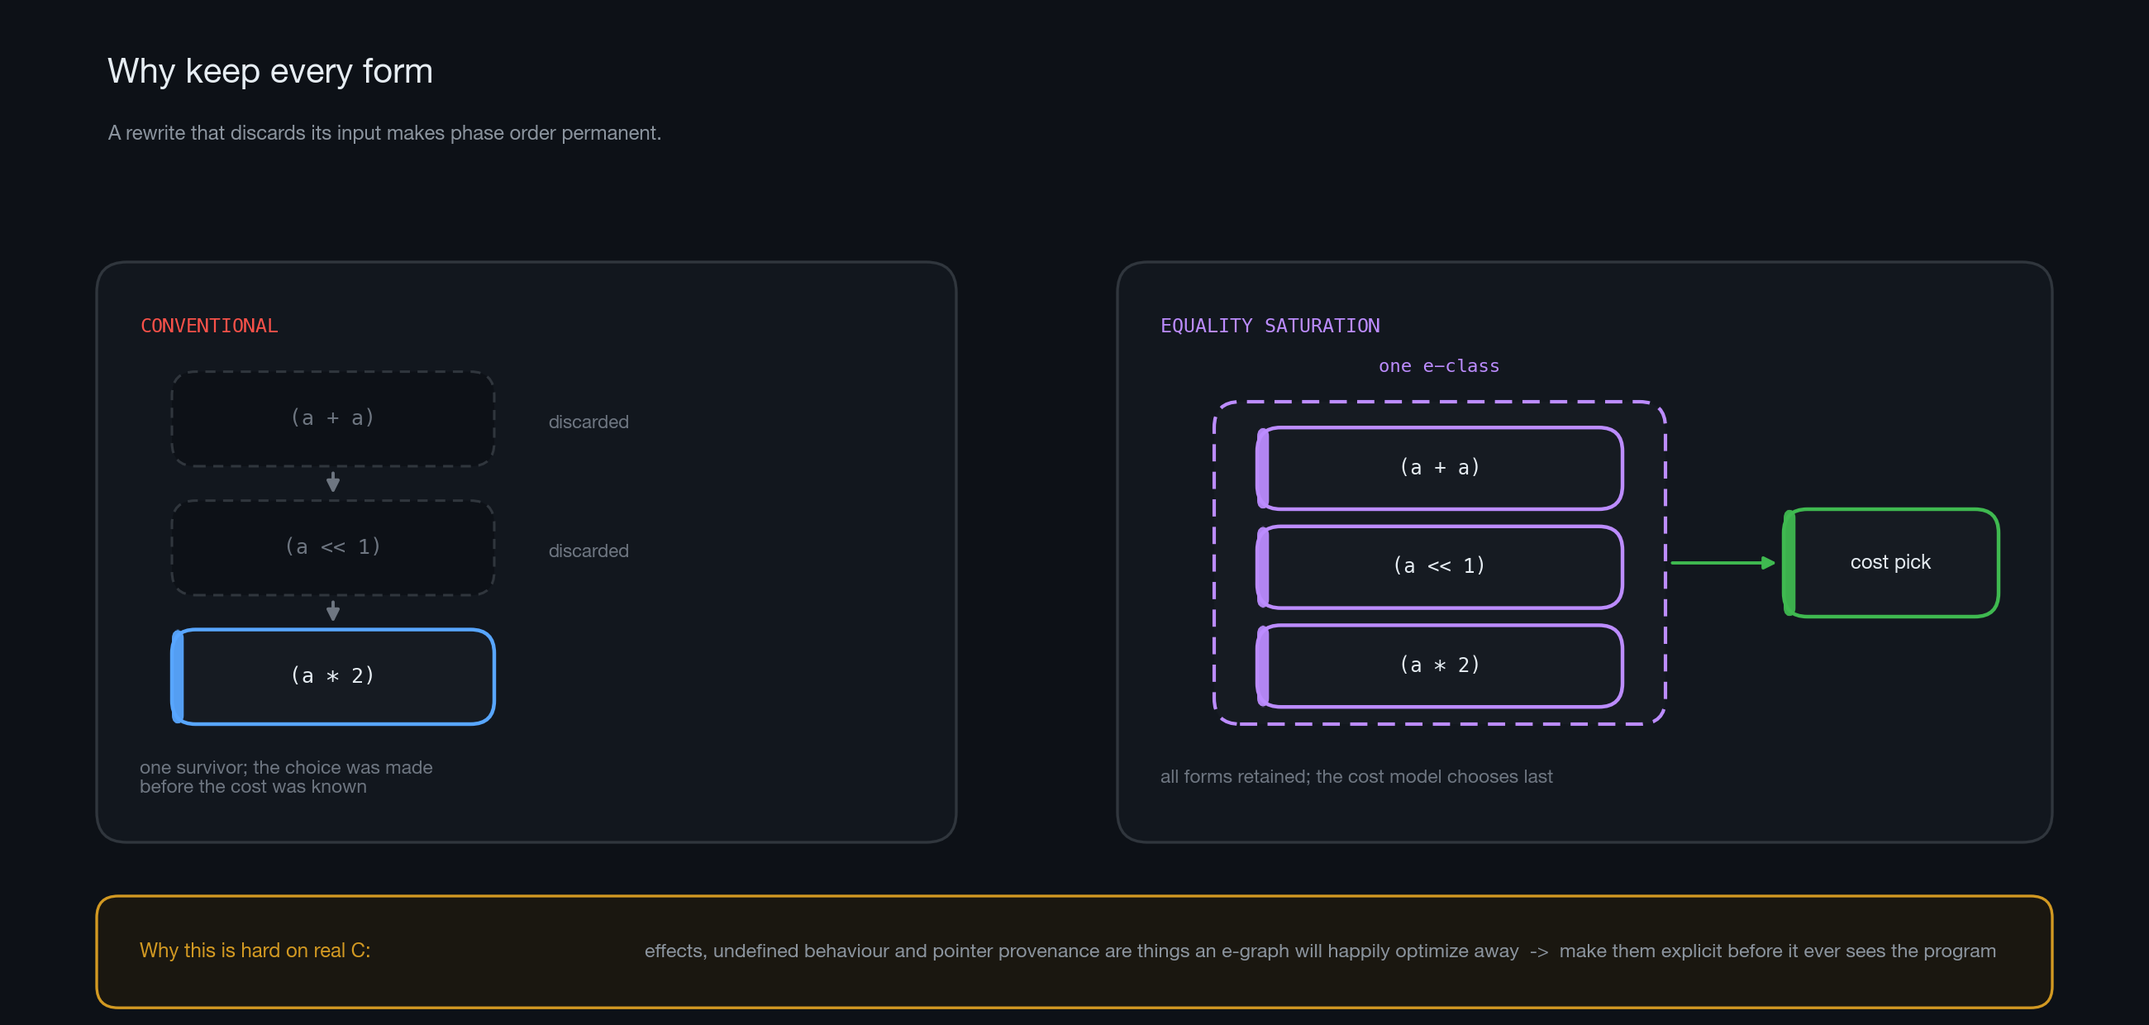
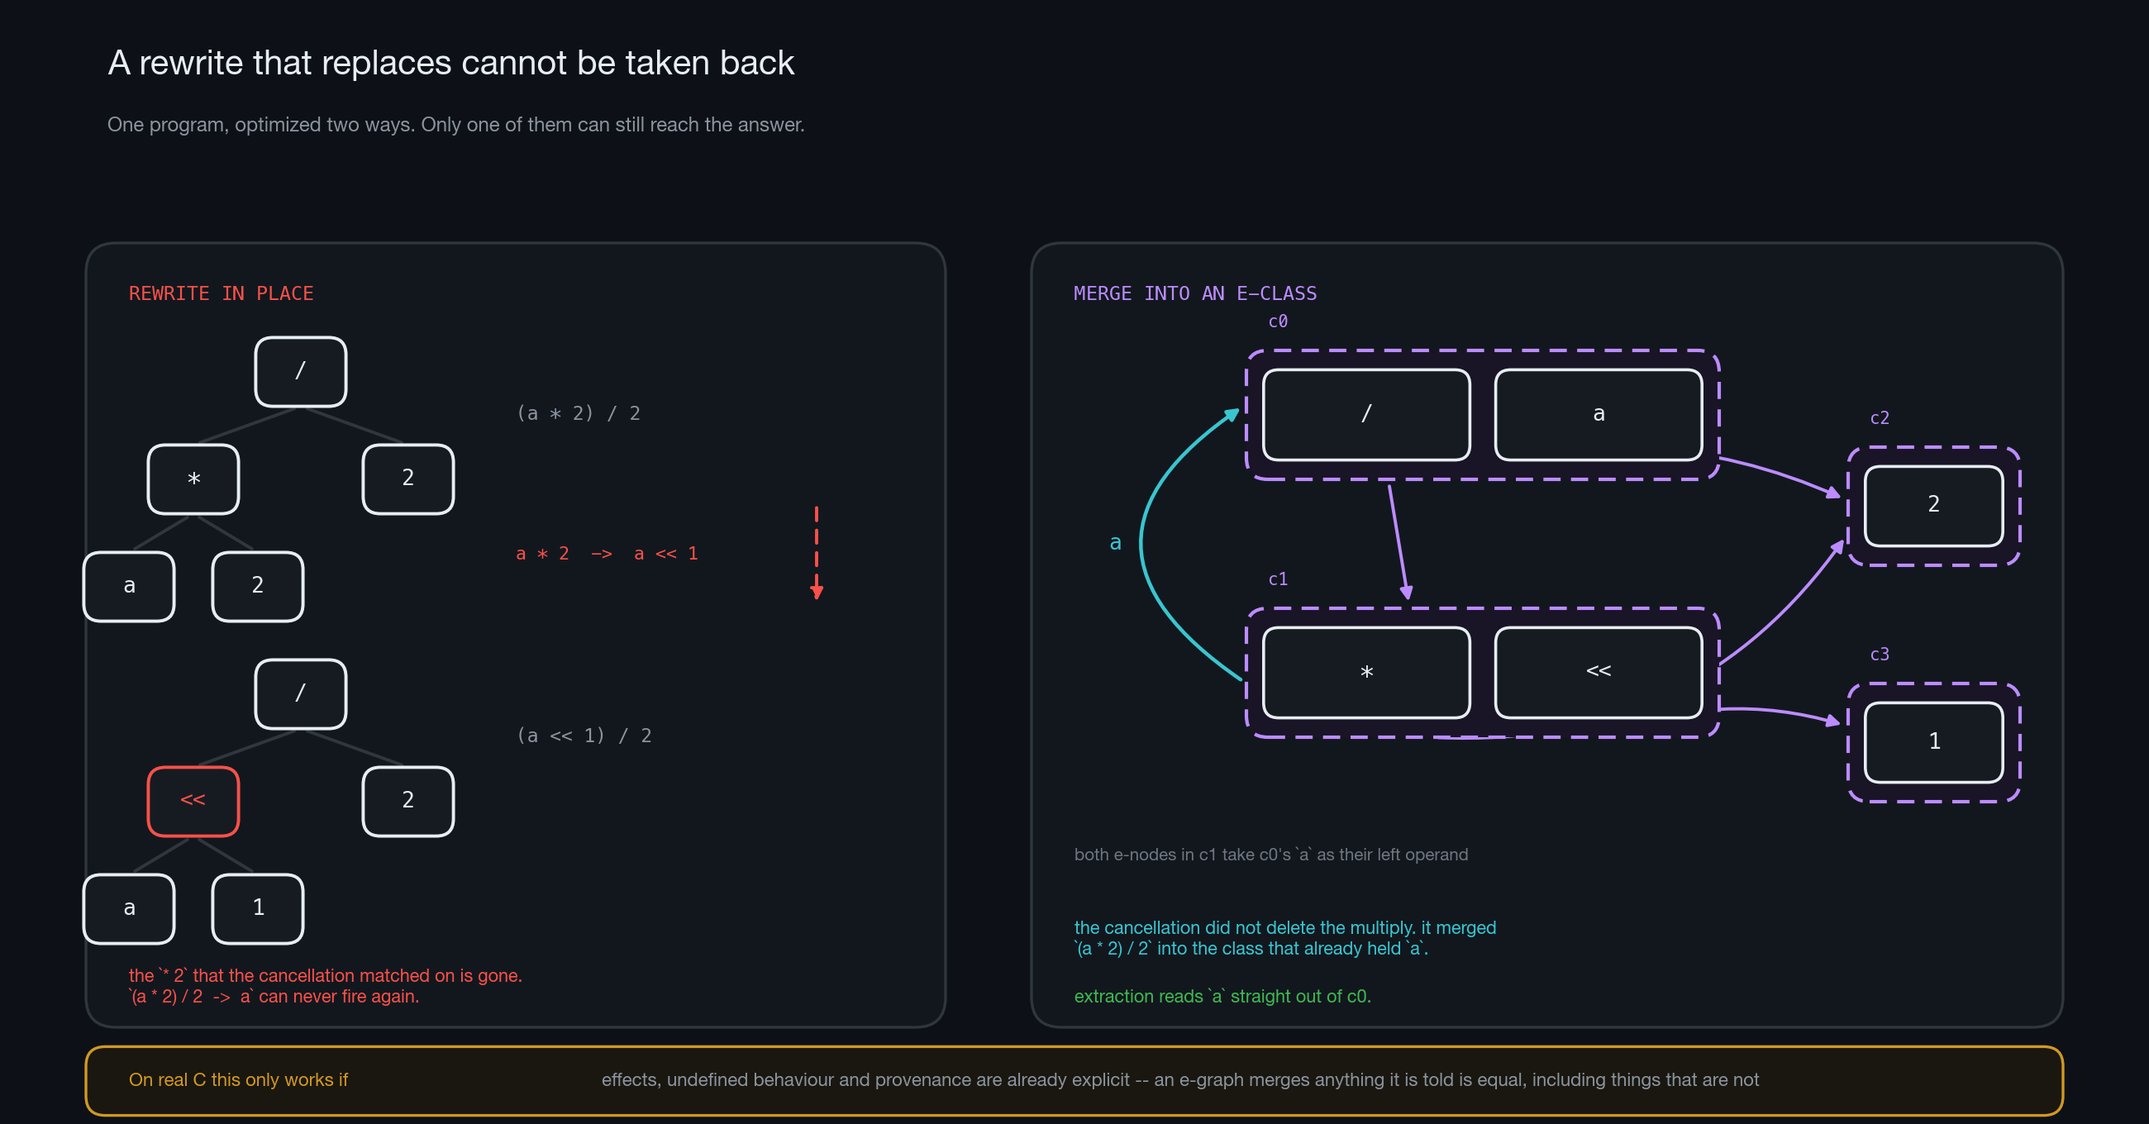
Show the e-graph mechanism and drop the status picture
The figure that carries the argument now draws what actually happens:
strength reduction rewriting in place destroys the pattern that
cancellation needed, while the same rewrite as a merge leaves one e-class
holding both the division and the variable, with the operand edge running
back into it. That cycle is the point, and three boxes beside three boxes
did not show it.

The roadmap picture is deleted. A status list rendered as an image is
strictly worse than a table: not selectable, not searchable, not
diffable, and stale without saying so. It is a table again.

diff --git a/tools/render-readme-figures.py b/tools/render-readme-figures.py
@@ -1,9 +1,12 @@
 #!/usr/bin/env python3
 """Render the README figures.
 
-One palette, one geometry vocabulary, four figures. Built things are solid and
-coloured; unbuilt things are dashed and muted, so a reader can see the shape of
-the compiler and how much of it exists without reading a word.
+Three figures, each showing a mechanism the prose cannot: what the pipeline is
+and how much of it exists, what an e-class does that a replacement cannot undo,
+and the two return edges that decide what gets built next.
+
+Status belongs in a table, not a picture: a rendered list is not selectable,
+not searchable, not diffable, and goes stale in silence.
 
     python3 tools/render-readme-figures.py
 """
@@ -191,50 +194,110 @@ def figure_architecture(out: Path) -> None:
 
 
 # ------------------------------------------------------------------------ why
+def eclass(ax, x, y, w, h, name, nodes, *, colour=PURPLE):
+    """An e-class: a dashed container holding one or more e-nodes."""
+    ax.add_patch(FancyBboxPatch((x, y), w, h, boxstyle="round,pad=0,rounding_size=1.0",
+                                linewidth=1.5, edgecolor=colour, facecolor="#191426",
+                                linestyle=(0, (5, 3)), zorder=2))
+    ax.text(x + 1.0, y + h + 1.3, name, ha="left", va="center", color=colour,
+            fontsize=7.4, fontfamily=MONO)
+    anchors = {}
+    nw = (w - 1.6 - 1.2 * (len(nodes) - 1)) / len(nodes)
+    for i, label in enumerate(nodes):
+        nx = x + 0.8 + i * (nw + 1.2)
+        ax.add_patch(FancyBboxPatch((nx, y + 0.9), nw, h - 1.8,
+                                    boxstyle="round,pad=0,rounding_size=0.7",
+                                    linewidth=1.3, edgecolor=TEXT, facecolor=PANEL, zorder=3))
+        ax.text(nx + nw / 2, y + h / 2, label, ha="center", va="center", color=TEXT,
+                fontsize=9.5, fontfamily=MONO, zorder=4)
+        anchors[label] = (nx + nw / 2, y, nx + nw / 2, y + h - 0.9)
+    return anchors
+
+
+def tree(ax, nodes, edges, *, dim=False, mark=None):
+    """A small expression tree: (label, x, y) nodes and (parent, child) edges."""
+    pos = {}
+    for label, x, y in nodes:
+        pos[label] = (x, y)
+    for a, b in edges:
+        arrow(ax, (pos[a][0], pos[a][1] - 1.6), (pos[b][0], pos[b][1] + 1.6),
+              colour=FAINT if dim else EDGE, style="-")
+    for label, x, y in nodes:
+        text = label.split("#")[0]
+        hot = mark is not None and label == mark
+        colour = RED if hot else (FAINT if dim else TEXT)
+        ax.add_patch(FancyBboxPatch((x - 2.1, y - 1.6), 4.2, 3.2,
+                                    boxstyle="round,pad=0,rounding_size=0.8",
+                                    linewidth=1.4, edgecolor=colour,
+                                    facecolor=INK if dim else PANEL, zorder=3))
+        ax.text(x, y, text, ha="center", va="center", color=colour,
+                fontsize=9.5, fontfamily=MONO, zorder=4)
+    return pos
+
+
 def figure_why(out: Path) -> None:
-    fig, ax = canvas(13, 6.2)
-    title(ax, 5, 45, "Why keep every form",
-          "A rewrite that discards its input makes phase order permanent.")
+    fig, ax = canvas(13, 6.8)
+    title(ax, 5, 50,
+          "A rewrite that replaces cannot be taken back",
+          "One program, optimized two ways. Only one of them can still reach the answer.")
 
-    # left: destructive
-    ax.add_patch(FancyBboxPatch((4.5, 8.5), 40, 27, boxstyle="round,pad=0,rounding_size=1.4",
+    # ---------------- left: rewriting in place destroys the pattern
+    ax.add_patch(FancyBboxPatch((4.0, 4.5), 40.0, 36.5, boxstyle="round,pad=0,rounding_size=1.4",
                                 linewidth=1.2, edgecolor=EDGE, facecolor="#12171e", zorder=0))
-    caption(ax, 6.5, 32.5, "CONVENTIONAL", colour=RED, size=8.4, mono=True)
-    chain = [("(a + a)", 28.0, TEXT), ("(a << 1)", 22.0, TEXT), ("(a * 2)", 16.0, TEXT)]
-    for i, (label, y, colour) in enumerate(chain):
-        live = i == len(chain) - 1
-        box(ax, 8.0, y - 2.0, 15.0, 4.4, label, colour=BLUE if live else EDGE,
-            built=live, mono=True, fs=9)
-        if i:
-            arrow(ax, (15.5, y + 4.0), (15.5, y + 2.4), colour=FAINT)
-        if not live:
-            ax.text(25.5, y, "discarded", ha="left", va="center", color=FAINT,
-                    fontsize=8, fontfamily=SANS, style="italic")
-    caption(ax, 6.5, 11.5, "one survivor; the choice was made\nbefore the cost was known", colour=FAINT)
+    caption(ax, 6.0, 38.6, "REWRITE IN PLACE", colour=RED, size=8.4, mono=True)
 
-    # right: saturation
-    ax.add_patch(FancyBboxPatch((52.0, 8.5), 43.5, 27, boxstyle="round,pad=0,rounding_size=1.4",
+    tree(ax,
+         [("/", 14.0, 35.0), ("*", 9.0, 30.0), ("2", 19.0, 30.0),
+          ("a", 6.0, 25.0), ("2#a", 12.0, 25.0)],
+         [("/", "*"), ("/", "2"), ("*", "a"), ("*", "2#a")])
+    caption(ax, 24.0, 33.0, "(a * 2) / 2", colour=MUTED, mono=True)
+
+    arrow(ax, (38.0, 29.0), (38.0, 24.0), colour=RED, dashed=True)
+    caption(ax, 24.0, 26.5, "a * 2  ->  a << 1", colour=RED, size=7.8, mono=True)
+
+    tree(ax,
+         [("/", 14.0, 20.0), ("<<", 9.0, 15.0), ("2", 19.0, 15.0),
+          ("a", 6.0, 10.0), ("1", 12.0, 10.0)],
+         [("/", "<<"), ("/", "2"), ("<<", "a"), ("<<", "1")], mark="<<")
+    caption(ax, 24.0, 18.0, "(a << 1) / 2", colour=MUTED, mono=True)
+    ax.text(6.0, 6.4, "the `* 2` that the cancellation matched on is gone.\n"
+                      "`(a * 2) / 2  ->  a` can never fire again.",
+            ha="left", va="center", color=RED, fontsize=7.8, fontfamily=SANS)
+
+    # ---------------- right: the same rewrite as a merge
+    ax.add_patch(FancyBboxPatch((48.0, 4.5), 48.0, 36.5, boxstyle="round,pad=0,rounding_size=1.4",
                                 linewidth=1.2, edgecolor=EDGE, facecolor="#12171e", zorder=0))
-    caption(ax, 54.0, 32.5, "EQUALITY SATURATION", colour=PURPLE, size=8.4, mono=True)
-    ax.add_patch(FancyBboxPatch((56.5, 14.0), 21.0, 15.0, boxstyle="round,pad=0,rounding_size=1.2",
-                                linewidth=1.5, edgecolor=PURPLE, facecolor=PANEL,
-                                linestyle=(0, (5, 3)), zorder=1))
-    caption(ax, 67.0, 30.6, "one e-class", colour=PURPLE, size=8, ha="center", mono=True)
-    for i, label in enumerate(["(a + a)", "(a << 1)", "(a * 2)"]):
-        box(ax, 58.5, 24.0 - i * 4.6, 17.0, 3.8, label, colour=PURPLE, built=True, mono=True, fs=8.6)
-    box(ax, 83.0, 19.0, 10.0, 5.0, "cost pick", colour=GREEN, built=True, fs=8.6)
-    arrow(ax, (77.5, 21.5), (83.0, 21.5), colour=GREEN)
-    caption(ax, 54.0, 11.5, "all forms retained; the cost model chooses last", colour=FAINT)
+    caption(ax, 50.0, 38.6, "MERGE INTO AN E-CLASS", colour=PURPLE, size=8.4, mono=True)
 
-    # the hard part
-    ax.add_patch(FancyBboxPatch((4.5, 0.8), 91.0, 5.2, boxstyle="round,pad=0,rounding_size=1.0",
+    c0 = eclass(ax, 58.0, 30.0, 22.0, 6.0, "c0", ["/", "a"])
+    c1 = eclass(ax, 58.0, 18.0, 22.0, 6.0, "c1", ["*", "<<"])
+    eclass(ax, 86.0, 26.0, 8.0, 5.5, "c2", ["2"])
+    eclass(ax, 86.0, 15.0, 8.0, 5.5, "c3", ["1"])
+
+    arrow(ax, (c0["/"][0] + 1.0, 30.0), (c1["*"][0] + 2.0, 24.0), colour=PURPLE)  # / -> c1
+    arrow(ax, (c0["/"][0] + 3.0, 30.0), (86.0, 29.0), colour=PURPLE, rad=-0.2)  # / -> c2
+    arrow(ax, (c1["*"][0] + 3.0, 18.0), (86.0, 27.5), colour=PURPLE, rad=0.28)  # * -> c2
+    arrow(ax, (c1["<<"][0], 18.0), (86.0, 18.5), colour=PURPLE, rad=-0.18)      # << -> c3
+    arrow(ax, (58.0, 20.5), (58.0, 33.5), colour=TEAL, rad=-0.75, lw=1.6)        # c1 -> c0
+    caption(ax, 51.6, 27.0, "a", colour=TEAL, size=9.5, mono=True)
+
+    caption(ax, 50.0, 12.5, "both e-nodes in c1 take c0's `a` as their left operand",
+            colour=FAINT, size=7.4)
+    ax.text(50.0, 8.6, "the cancellation did not delete the multiply. it merged\n"
+                       "`(a * 2) / 2` into the class that already held `a`.",
+            ha="left", va="center", color=TEAL, fontsize=7.8, fontfamily=SANS)
+    ax.text(50.0, 5.9, "extraction reads `a` straight out of c0.",
+            ha="left", va="center", color=GREEN, fontsize=7.8, fontfamily=SANS)
+
+    # ---------------- the hard part
+    ax.add_patch(FancyBboxPatch((4.0, 0.4), 92.0, 3.2, boxstyle="round,pad=0,rounding_size=0.9",
                                 linewidth=1.2, edgecolor=AMBER, facecolor="#1a1710", zorder=0))
-    ax.text(6.5, 3.4, "Why this is hard on real C:", ha="left", va="center", color=AMBER,
-            fontsize=8.6, fontfamily=SANS, fontweight="bold")
-    ax.text(30.0, 3.4,
-            "effects, undefined behaviour and pointer provenance are things an e-graph will happily "
-            "optimize away  ->  make them explicit before it ever sees the program",
-            ha="left", va="center", color=MUTED, fontsize=8.4, fontfamily=SANS)
+    ax.text(6.0, 2.0, "On real C this only works if", ha="left", va="center", color=AMBER,
+            fontsize=8.0, fontfamily=SANS, fontweight="bold")
+    ax.text(28.0, 2.0,
+            "effects, undefined behaviour and provenance are already explicit -- an e-graph "
+            "merges anything it is told is equal, including things that are not",
+            ha="left", va="center", color=MUTED, fontsize=8.0, fontfamily=SANS)
     fig.savefig(out, facecolor=INK)
     plt.close(fig)
 
@@ -283,113 +346,16 @@ def figure_loop(out: Path) -> None:
     plt.close(fig)
 
 
-# -------------------------------------------------------------------- roadmap
-def figure_roadmap(out: Path, parse_clean: int, preprocess_clean: int, total: int) -> None:
-    fig, ax = canvas(13, 8.0)
-    title(ax, 5, 59, "Roadmap 0.1", "Status is what a gate measures, not an estimate.")
-
-    rows = [
-        ("EvoCPP preprocessor", "done", "16/16 units preprocess clean"),
-        ("Lexer and C11 + GNU parser", "done", "142 goldens, 1,000-snippet corpus"),
-        ("Type system and layout", "done", "128/128 and 22/22 vs sealed oracles"),
-        ("C-HIR and semantic interpreter", "done", "typed UB, provenance, initializedness"),
-        ("EvoIR block-argument SSA", "done", "explicit mem and world tokens"),
-        ("Semantic lowering", "done", "UB explicit before any rewrite"),
-        ("Equality engine and proofs", "done", "EVP1 replayed by evo-proofcheck"),
-        ("Kernel telemetry and publication", "done", "sealed evidence, refuses regressions"),
-        ("Diagnostic survey", "partial", "works; cascades and recovery unfinished"),
-        ("Kernel parse closure", "open", f"{parse_clean}/{total} units parse clean"),
-        ("Analysis lattices, bounded scheduler", "open", ""),
-        ("Randomized semantic gate", "open", ""),
-        ("EvoMIR, register allocation, AArch64", "open", ""),
-        ("ABIs and native flight gates", "open", ""),
-        ("Kernel codegen, link, boot", "open", ""),
-    ]
-    palette = {"done": GREEN, "partial": AMBER, "open": EDGE}
-    y = 52.0
-    for label, state, note in rows:
-        colour = palette[state]
-        ax.add_patch(FancyBboxPatch((5.0, y - 1.15), 2.0, 2.3,
-                                    boxstyle="round,pad=0,rounding_size=0.5",
-                                    linewidth=1.3, edgecolor=colour,
-                                    facecolor=colour if state != "open" else INK,
-                                    linestyle="solid" if state != "open" else (0, (3, 2))))
-        ax.text(9.0, y, label, ha="left", va="center",
-                color=TEXT if state != "open" else FAINT,
-                fontsize=9.2, fontfamily=SANS,
-                fontweight="medium" if state != "open" else "normal")
-        if note:
-            ax.text(46.0, y, note, ha="left", va="center", color=MUTED if state != "open" else FAINT,
-                    fontsize=8.2, fontfamily=SANS)
-        y -= 3.05
-
-    # the one kernel number
-    ax.add_patch(FancyBboxPatch((72.0, 24.0), 24.0, 30.0, boxstyle="round,pad=0,rounding_size=1.3",
-                                linewidth=1.2, edgecolor=EDGE, facecolor="#12171e", zorder=0))
-    ax.text(74.0, 51.0, "THE ONE KERNEL NUMBER", ha="left", va="center", color=TEXT,
-            fontsize=8.4, fontfamily=MONO)
-    ax.text(74.0, 48.0, f"pinned Linux 6.18.44, {total}-unit cohort", ha="left", va="center",
-            color=FAINT, fontsize=7.6, fontfamily=SANS)
-
-    for i, (name, clean, colour) in enumerate(
-        [("preprocess", preprocess_clean, GREEN), ("parse (both oracles)", parse_clean, AMBER)]
-    ):
-        by = 42.0 - i * 9.0
-        ax.text(74.0, by + 2.6, name, ha="left", va="center", color=MUTED,
-                fontsize=8.0, fontfamily=SANS)
-        ax.add_patch(FancyBboxPatch((74.0, by - 0.9), 20.0, 2.4,
-                                    boxstyle="round,pad=0,rounding_size=0.7",
-                                    linewidth=0, facecolor="#21262d"))
-        width = 20.0 * clean / total
-        if width > 0.1:
-            ax.add_patch(FancyBboxPatch((74.0, by - 0.9), width, 2.4,
-                                        boxstyle="round,pad=0,rounding_size=0.7",
-                                        linewidth=0, facecolor=colour))
-        ax.text(74.0, by - 3.4, f"{clean}/{total}", ha="left", va="center", color=colour,
-                fontsize=11, fontfamily=MONO, fontweight="bold")
-
-    ax.text(74.0, 27.5,
-            "every published number carries\nthe command that produced it",
-            ha="left", va="center", color=FAINT, fontsize=7.6, fontfamily=SANS)
-
-    # the frontier is the progress; the count is a lagging conjunction
-    ax.add_patch(FancyBboxPatch((72.0, 3.0), 24.0, 19.5,
-                                boxstyle="round,pad=0,rounding_size=1.3",
-                                linewidth=1.2, edgecolor=EDGE, facecolor="#12171e", zorder=0))
-    ax.text(74.0, 20.6, "WHAT MOVED INSTEAD", ha="left", va="center", color=TEXT,
-            fontsize=8.0, fontfamily=MONO)
-    frontier = ["__attribute__", "typeof / _Generic", "pointer updates", "asm, overflow",
-                "statement expressions", "compile-time builtins", "aggregate copies",
-                "__typeof_unqual__", "address-of places"]
-    for i, item in enumerate(frontier):
-        ax.text(74.6, 18.0 - i * 1.45, f"{i + 1}.", ha="left", va="center", color=FAINT,
-                fontsize=6.8, fontfamily=MONO)
-        ax.text(77.4, 18.0 - i * 1.45, item, ha="left", va="center",
-                color=MUTED if i < len(frontier) - 1 else AMBER,
-                fontsize=7.2, fontfamily=SANS)
-    ax.text(74.0, 4.6, "each cleared, each republished with zero regressions;\n"
-                       "the count only moves when a unit's last one falls",
-            ha="left", va="center", color=FAINT, fontsize=7.0, fontfamily=SANS)
-
-    legend(ax, 5, 5.0, [(GREEN, "done", True), (AMBER, "partial", True), (EDGE, "open", False)])
-    fig.savefig(out, facecolor=INK)
-    plt.close(fig)
-
-
 def main() -> int:
     parser = argparse.ArgumentParser()
     parser.add_argument("--out", type=Path, default=Path("docs/images"))
-    parser.add_argument("--parse-clean", type=int, default=2)
-    parser.add_argument("--preprocess-clean", type=int, default=16)
-    parser.add_argument("--cohort", type=int, default=16)
     args = parser.parse_args()
 
     args.out.mkdir(parents=True, exist_ok=True)
     figure_architecture(args.out / "architecture.png")
     figure_why(args.out / "why.png")
     figure_loop(args.out / "loop.png")
-    figure_roadmap(args.out / "roadmap.png", args.parse_clean, args.preprocess_clean, args.cohort)
-    for name in ("architecture", "why", "loop", "roadmap"):
+    for name in ("architecture", "why", "loop"):
         path = args.out / f"{name}.png"
         print(f"{path}  {path.stat().st_size // 1024} KiB")
     return 0

diff --git a/README.md b/README.md
@@ -8,7 +8,7 @@
 
 Conventional compilers destroy information at every step: each rewrite discards the form it replaced, so later passes cannot recover it and phase ordering becomes a permanent source of missed optimizations. Equality saturation fixes that by keeping every equivalent form until a cost model chooses, but it has stayed largely in research because real languages have effects, undefined behavior, and pointer provenance that an e-graph will happily "optimize" away. The bet here is that this becomes tractable if the semantics are made explicit *before* the e-graph sees the program — memory as tokens, UB as assumptions, provenance as part of pointer identity — and if every union carries a machine-checkable justification. A compiler whose rewrite library will increasingly be written by AI agents needs proofs as a product, not a debugging aid. Booting a real kernel is the only honest test that the semantics survived contact with reality.
 
-![Destructive rewriting versus equality saturation](docs/images/why.png)
+![Rewriting in place versus merging into an e-class](docs/images/why.png)
 
 ## How
 
@@ -20,9 +20,32 @@ Every claim in this repository is a **measured number with the command that prod
 
 ## Roadmap 0.1
 
-![Roadmap status](docs/images/roadmap.png)
-
 Status is measured, not estimated. `DONE` means a gate is green on sealed evidence.
+
+| Capability | Status | What the gate measures |
+|---|---|---|
+| EvoCPP preprocessor | done | 16/16 cohort units preprocess clean |
+| Lexer, C11 + GNU parser | done | 142 sealed lexer goldens, 1,000-snippet parse corpus |
+| Type system and layout | done | 128/128 and 22/22 against the sealed oracles, 0 mismatches |
+| C-HIR and semantic interpreter | done | typed UB, provenance, per-byte initializedness |
+| EvoIR block-argument SSA | done | both interpreters agree on the differential corpus |
+| Semantic lowering | done | UB explicit before any rewrite; front-end forms leave no trace |
+| Equality engine and proofs | done | EVP1 replayed by a standalone `evo-proofcheck` |
+| Kernel telemetry and publication | done | sealed evidence; refuses to publish on a regression |
+| Diagnostic survey | partial | works; cascade ranking and recovery soundness unfinished |
+| Kernel parse closure | open | 2/16 cohort units parse clean under both oracles |
+| Analysis lattices, bounded scheduler | open | — |
+| Randomized semantic gate | open | — |
+| EvoMIR, register allocation, AArch64 | open | — |
+| ABIs and native flight gates | open | — |
+| Kernel codegen, link, boot | open | — |
+
+The parse count has sat at 2/16 while nine distinct blockers were cleared and
+republished with zero regressions: `__attribute__`, `typeof`/`_Generic`, pointer
+updates, `asm` and the overflow builtins, statement expressions, the
+compile-time builtins, aggregate copies, `__typeof_unqual__`, and places rooted
+at an address-of. A unit is clean only when its *last* blocker falls, so the
+count is a lagging indicator and the frontier is the real one.
 
 ### Front end
 
@@ -99,4 +122,4 @@ tools/                  routing, survey and figure rendering
 
 Every commit passes the same gate: workspace tests, `clippy -D warnings`, `rustfmt`, Ruff on the Python harnesses, both layout corpora against the sealed oracles, and an isolated offline clone replay. Measured at `b14eccd`, the most recent commit with no open test window: **956 tests passed, 0 failed**, clippy 0, corpora 128/128 and 22/22 at 0 mismatches. A higher count on a later commit may include an open red window, where declared failures are the point; the receipts in `tests/contracts/` say which commit each number came from. Nothing is claimed that these do not measure.
 
-The figures are generated, not drawn: `python3 tools/render-readme-figures.py` re-renders them from the same numbers the receipts carry.
+The figures are generated, not drawn: `python3 tools/render-readme-figures.py` re-renders them.
